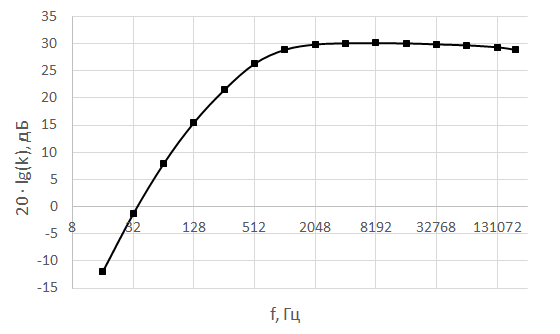
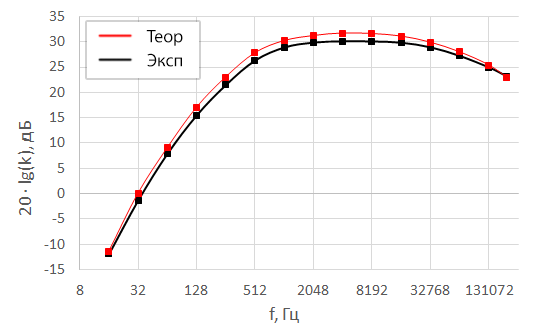
almost done

diff --git a/lab5/lab5.tex b/lab5/lab5.tex
@@ -77,10 +77,31 @@ I_\text{э} = \frac{(E_0 - U_\text{кэА})}{\frac{h_{21}}{1+h_{21}}R_\text{к}}
 
 Найдем сопротивление резистора $R_1$:
 \begin{equation}
-R_1 = \frac{h_{21}(E_0-U_\text{БЭ})R_\text{к}}{E_0-U_\text{кэА}} = \frac{12 \cdot (8 - 0.2) \cdot 3900}{4} = 91260 \text{ Ом}.
+R_1 = \frac{h_{21}(E_0-U_\text{БЭ})R_\text{к}}{E_0-U_\text{кэА}} = \frac{12 \cdot (8 - 0.2) \cdot 3900}{4} = 91260 \text{ Ом}
 \end{equation}
 
-Потом еще немножечко рассчитаем.
+Рассчитаем входное сопротивление:
+\begin{equation}
+R_\text{вх} \approx h_\text{11Э} = r_\text{б} + r_\text{э}(h_{21} + 1) = 150 + \frac{0.025}{0.0011} \cdot 13 = 445.45 \text{ Ом}
+\end{equation}
+
+Выходное сопротивление примем:
+\begin{equation}
+R_\text{вых} \approx R_\text{к} = 3.9 \text{ кОм}.
+\end{equation}
+
+Найдем коэффициент усиления по току:
+\begin{equation}
+K_{I0} = h_{21} \cdot \frac{R_1}{R_1 + h_\text{11Э}} \cdot \frac{R_\text{к}}{R_\text{к}+R_\text{н}} 
+= 12 \cdot 0.995 \cdot 0.661 = 7.893
+\end{equation}
+
+Рассчитаем коэффициент усиления по напряжению:
+\begin{equation}
+K_{U0} = -\frac{h_{21} R_\text{к} R_\text{н}}{h_\text{11Э}(R_\text{к} + R_\text{н})} = -\frac{12 \cdot 3900 \cdot 2000}{445.45 \cdot 5900} = -35.61
+\end{equation}
+
+\newpage
 
 \section{Экспериментально снятые зависимости}
 
@@ -107,7 +128,7 @@ R_1 = \frac{h_{21}(E_0-U_\text{БЭ})R_\text{к}}{E_0-U_\text{кэА}} = \frac{1
 			23.1 & 1310 & 56.71\\\hline	
 			25.3 & 1390 & 54.94\\\hline	
 			27.9 & 1490 & 53.41\\\hline	
-			30.1 & 1580 & 52.49\\\hline\hline	
+			30.1 & 1580 & 52.49\\\hline\hline
 			33.1 & 1690 & 51.06\\\hline	
 			35.9 & 1750 & 48.75\\\hline	
 			39.6 & 1830 & 46.21\\\hline	
@@ -120,7 +141,7 @@ R_1 = \frac{h_{21}(E_0-U_\text{БЭ})R_\text{к}}{E_0-U_\text{кэА}} = \frac{1
 
 \begin{figure}[H]
 	\begin{center}
-		\includegraphics[height=9cm]{img/1}
+		\includegraphics[height=8cm]{img/1}
 		\caption{Зависимость напряжения $U_\text{вых}$ от $e_c$}
 		\label{figure:2}
 	\end{center}
@@ -137,21 +158,21 @@ R_1 = \frac{h_{21}(E_0-U_\text{БЭ})R_\text{к}}{E_0-U_\text{кэА}} = \frac{1
 		\begin{tabularx}{\textwidth}{|X|X|X|X|}
 			\hline
 			$f$, Гц & $U_\text{вых}$, В & $K$ & $20 \cdot lg(K)$, дБ\\\hline
-			16 & 5.07 & 0.2535 & -11.9204\\\hline	
-			32 & 17.2 & 0.86 & -1.3100\\\hline	
-			64 & 49.7 & 2.485 & 7.9065\\\hline	
-			128 & 119 & 5.95 & 15.4903\\\hline	
-			256 & 238 & 11.9 & 21.5109\\\hline	
-			512 & 415 & 20.75 & 26.3404\\\hline	
-			1024 & 558 & 27.9 & 28.9121\\\hline	
-			2048 & 623 & 31.15 & 29.8692\\\hline	
-			4096 & 639 & 31.95 & 30.0894\\\hline	
-			8192 & 641 & 32.05 & 30.1166\\\hline	
-			16384 & 638 & 31.9 & 30.0758\\\hline	
-			32768 & 625 & 31.25 & 29.8970\\\hline	
-			65536 & 612 & 30.6 & 29.7144\\\hline	
-			131072 & 587 & 29.35 & 29.3522\\\hline	
-			200000 & 557 & 27.85 & 28.8965\\\hline	
+			16 & 5.07 & 0.2535 & -11.9204\\\hline
+			32 & 17.2 & 0.86 & -1.3100\\\hline
+			64 & 49.7 & 2.485 & 7.9065\\\hline
+			128 & 119 & 5.95 & 15.4903\\\hline
+			256 & 238 & 11.9 & 21.5109\\\hline
+			512 & 415 & 20.75 & 26.3404\\\hline
+			1024 & 558 & 27.9 & 28.9121\\\hline
+			2048 & 623 & 31.15 & 29.8692\\\hline
+			4096 & 641 & 32.05 & 30.1166\\\hline
+			8192 & 639 & 31.95 & 30.0894\\\hline
+			16384 & 621 & 31.05 & 29.8412\\\hline
+			32768 & 559 & 27.95 & 28.9276\\\hline
+			65536 & 459 & 22.95 & 27.2157\\\hline
+			131072 & 353 & 17.65 & 24.9349\\\hline
+			200000 & 289 & 14.45 & 23.1974\\\hline
 		\end{tabularx}
 		\label{tabular:3}
 	\end{center}
@@ -159,8 +180,8 @@ R_1 = \frac{h_{21}(E_0-U_\text{БЭ})R_\text{к}}{E_0-U_\text{кэА}} = \frac{1
 
 \begin{figure}[H]
 	\begin{center}
-		\includegraphics[height=9cm]{img/2}
-		\caption{\textbf{Добавить теорию} ЛАЧХ усилителя}
+		\includegraphics[height=8cm]{img/2}
+		\caption{ЛАЧХ усилителя}
 		\label{figure:2}
 	\end{center}
 \end{figure}
